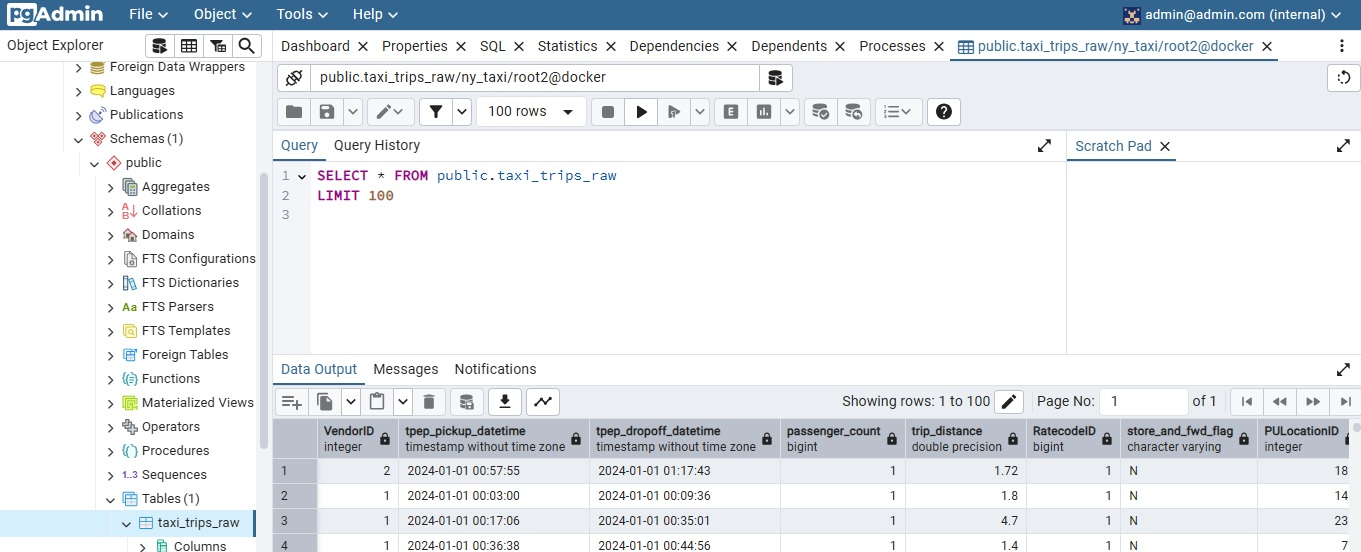
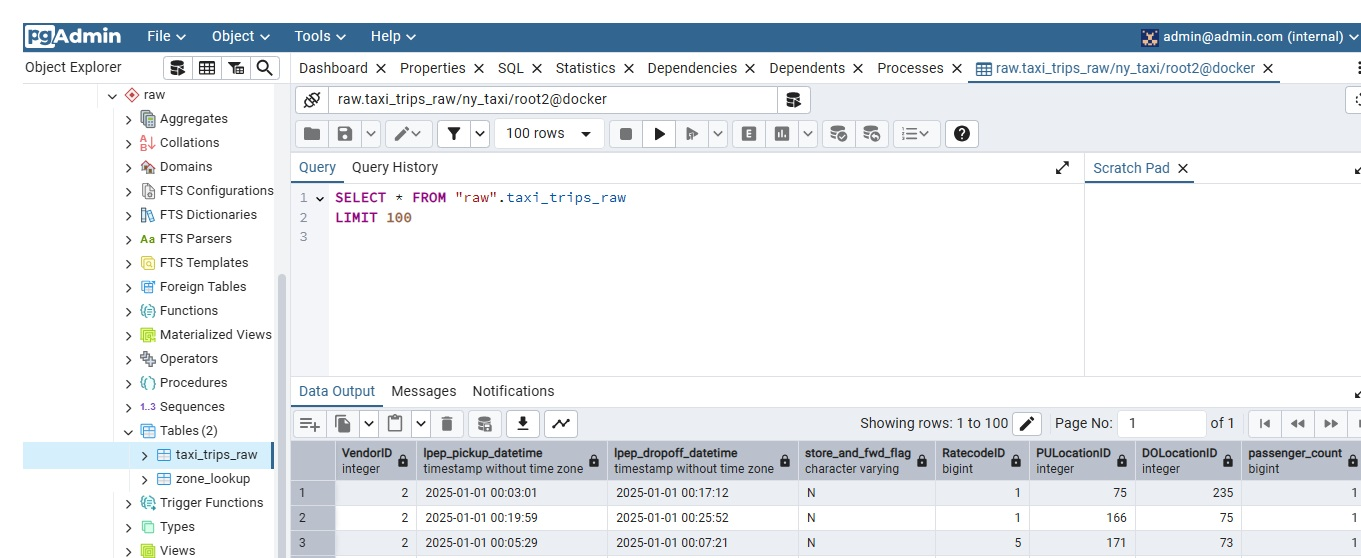
add zone_lookup table

Changed region(s): [[0.0, 0.0, 1.0, 1.0]]

diff --git a/ingest_data.py b/ingest_data.py
@@ -23,24 +23,52 @@ AS postgres_db (TYPE POSTGRES)
 
 print("Creating destination table if not exists")
 
+# Create Schema Raw
+
+con.execute("""
+CREATE SCHEMA IF NOT EXISTS postgres_db.raw
+""")
+
+
 # Create table
 
 con.execute("""
-CREATE TABLE IF NOT EXISTS postgres_db.public.taxi_trips_raw AS
+CREATE TABLE IF NOT EXISTS postgres_db.raw.taxi_trips_raw AS
 SELECT * FROM read_parquet(
-'https://d37ci6vzurychx.cloudfront.net/trip-data/yellow_tripdata_2024-01.parquet'
+'https://d37ci6vzurychx.cloudfront.net/trip-data/green_tripdata_2019-01.parquet'
 )
 LIMIT 0
 """)
 
-# Insert data
+# Insert taxi trips data
 
-url = "https://d37ci6vzurychx.cloudfront.net/trip-data/yellow_tripdata_2024-01.parquet"
+url = "https://d37ci6vzurychx.cloudfront.net/trip-data/green_tripdata_2019-01.parquet"
 
 con.execute(f"""
-    INSERT INTO postgres_db.public.taxi_trips_raw
+    INSERT INTO postgres_db.raw.taxi_trips_raw
     SELECT *
     FROM read_parquet('{url}')
     """)
 
-print("Pipeline finished")
+print("Taxi trips inserted")
+
+
+# Taxi Zone Lookup Table 
+
+zone_url = "https://d37ci6vzurychx.cloudfront.net/misc/taxi_zone_lookup.csv"
+
+con.execute(f"""
+CREATE TABLE IF NOT EXISTS postgres_db.raw.zone_lookup AS
+SELECT *
+FROM read_csv_auto('{zone_url}')
+LIMIT 0
+""")
+
+# Insert zone data
+con.execute(f"""
+INSERT INTO postgres_db.raw.zone_lookup
+SELECT *
+FROM read_csv_auto('{zone_url}')
+""")
+
+print("Zone lookup inserted")

diff --git a/README.md b/README.md
@@ -112,37 +112,59 @@ AS postgres_db (TYPE POSTGRES)
 
 print("Creating destination table if not exists")
 
+# Create Schema Raw
+
+con.execute("""
+CREATE SCHEMA IF NOT EXISTS postgres_db.raw
+""")
+
+
 # Create table
 
 con.execute("""
-CREATE TABLE IF NOT EXISTS postgres_db.public.taxi_trips_raw AS
+CREATE TABLE IF NOT EXISTS postgres_db.raw.taxi_trips_raw AS
 SELECT * FROM read_parquet(
-'https://d37ci6vzurychx.cloudfront.net/trip-data/yellow_tripdata_2024-01.parquet'
+'https://d37ci6vzurychx.cloudfront.net/trip-data/green_tripdata_2019-01.parquet'
 )
 LIMIT 0
 """)
 
-# Insert data
+# Insert taxi trips data
 
-url = "https://d37ci6vzurychx.cloudfront.net/trip-data/yellow_tripdata_2024-01.parquet"
+url = "https://d37ci6vzurychx.cloudfront.net/trip-data/green_tripdata_2019-01.parquet"
 
 con.execute(f"""
-    INSERT INTO postgres_db.public.taxi_trips_raw
+    INSERT INTO postgres_db.raw.taxi_trips_raw
     SELECT *
     FROM read_parquet('{url}')
     """)
 
-print("Pipeline finished")
+print("Taxi trips inserted")
+
+
+# Taxi Zone Lookup Table 
+
+zone_url = "https://d37ci6vzurychx.cloudfront.net/misc/taxi_zone_lookup.csv"
+
+con.execute(f"""
+CREATE TABLE IF NOT EXISTS postgres_db.raw.zone_lookup AS
+SELECT *
+FROM read_csv_auto('{zone_url}')
+LIMIT 0
+""")
+
+# Insert zone data
+con.execute(f"""
+INSERT INTO postgres_db.raw.zone_lookup
+SELECT *
+FROM read_csv_auto('{zone_url}')
+""")
+
+print("Zone lookup inserted")
 
 ```
 
-This Python script creates a simple data pipeline that loads data from a Parquet file into a PostgreSQL database using DuckDB.
 
-Creates a DuckDB connection which allows DuckDB to communicate directly with a PostgreSQL database.
-
-Creates a table in PostgreSQL if it does not already exist. The table structure is generated automatically based on the schema of a remote Parquet dataset.
-
-Reads data from a remote Parquet file (NYC taxi trip data) and inserts it into the PostgreSQL table.
 
 
 After running the command::
@@ -151,11 +173,17 @@ After running the command::
 python ingest_data.py
 ```
 
-the script starts executing the data pipeline. It connects to the PostgreSQL database and begins reading the Parquet file from the remote URL.
+This Python script uses DuckDB as an intermediary engine to download data from the internet and load it directly into a PostgreSQL database. First, the script defines a PostgreSQL connection string containing the necessary parameters to connect to the database, including the host, port, database name, user, and password. 
 
-Because the dataset is relatively large, the process can take a few minutes. During this time, DuckDB reads the data from the Parquet file and sends it to PostgreSQL.
+Next, the script installs and loads the Postgres extension for DuckDB using the commands INSTALL postgres and LOAD postgres. This extension allows DuckDB to connect to a PostgreSQL database and execute queries that read from or write to it. Then the script uses the ATTACH command to establish the connection to PostgreSQL using the previously defined connection string. Inside DuckDB, this attached database is referenced as postgres_db.
 
-After a few minutes, the data will be inserted into the taxi_trips_raw table in the PostgreSQL database. Once the process finishes, the table will contain all the records from the dataset.
+Once the connection is established, the script creates a schema called raw inside PostgreSQL. A raw schema is commonly used to store raw or unprocessed data, meaning the data is kept exactly as it was received from the original source before any transformations or cleaning are applied.
+
+After that, the script creates a table called taxi_trips_raw inside the raw schema. To define the structure of this table, the script uses DuckDB’s read_parquet function to read a remote Parquet file containing New York green taxi trip data. The query includes LIMIT 0, which means the table is created with the same column structure as the file but without inserting any rows yet.
+
+Once the table structure is created, the script proceeds to insert the actual trip data from the same Parquet file. This is done with an INSERT INTO ... SELECT * FROM read_parquet(url) statement. DuckDB reads the Parquet file directly from the URL and sends the resulting rows to the destination table in PostgreSQL.
+
+Finally, the script performs a similar process for another table called zone_lookup. In this case, the data comes from a CSV file that contains information about taxi zones in New York City. 
 
 <br>
 
